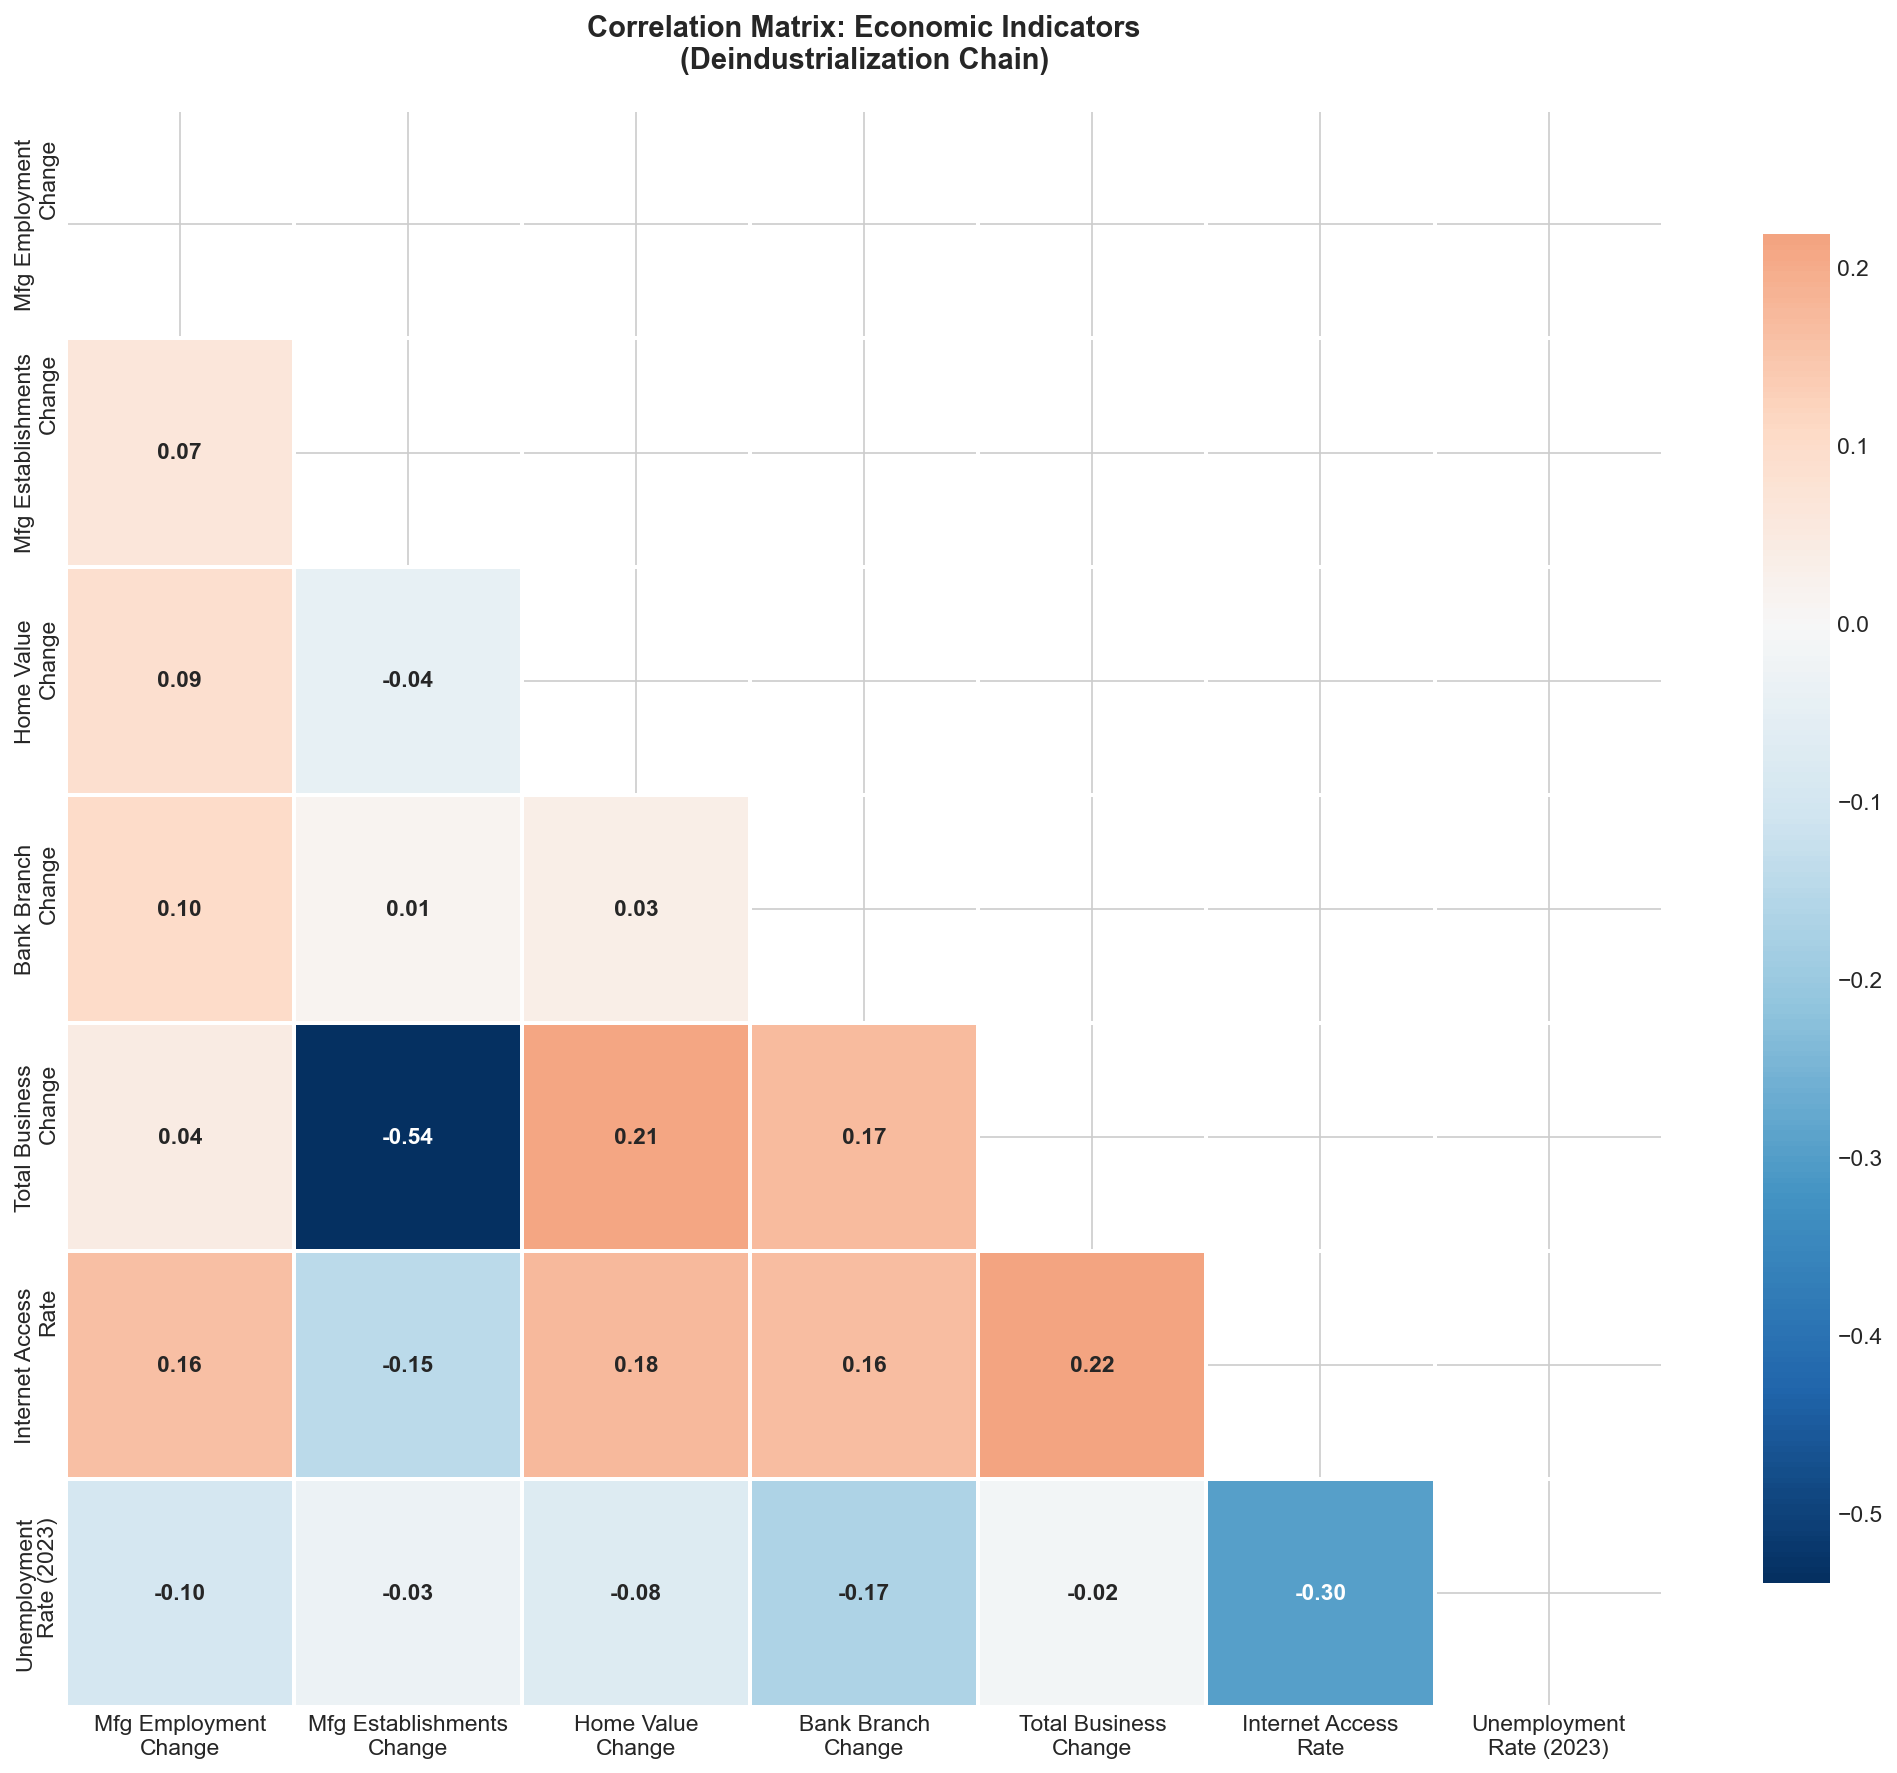
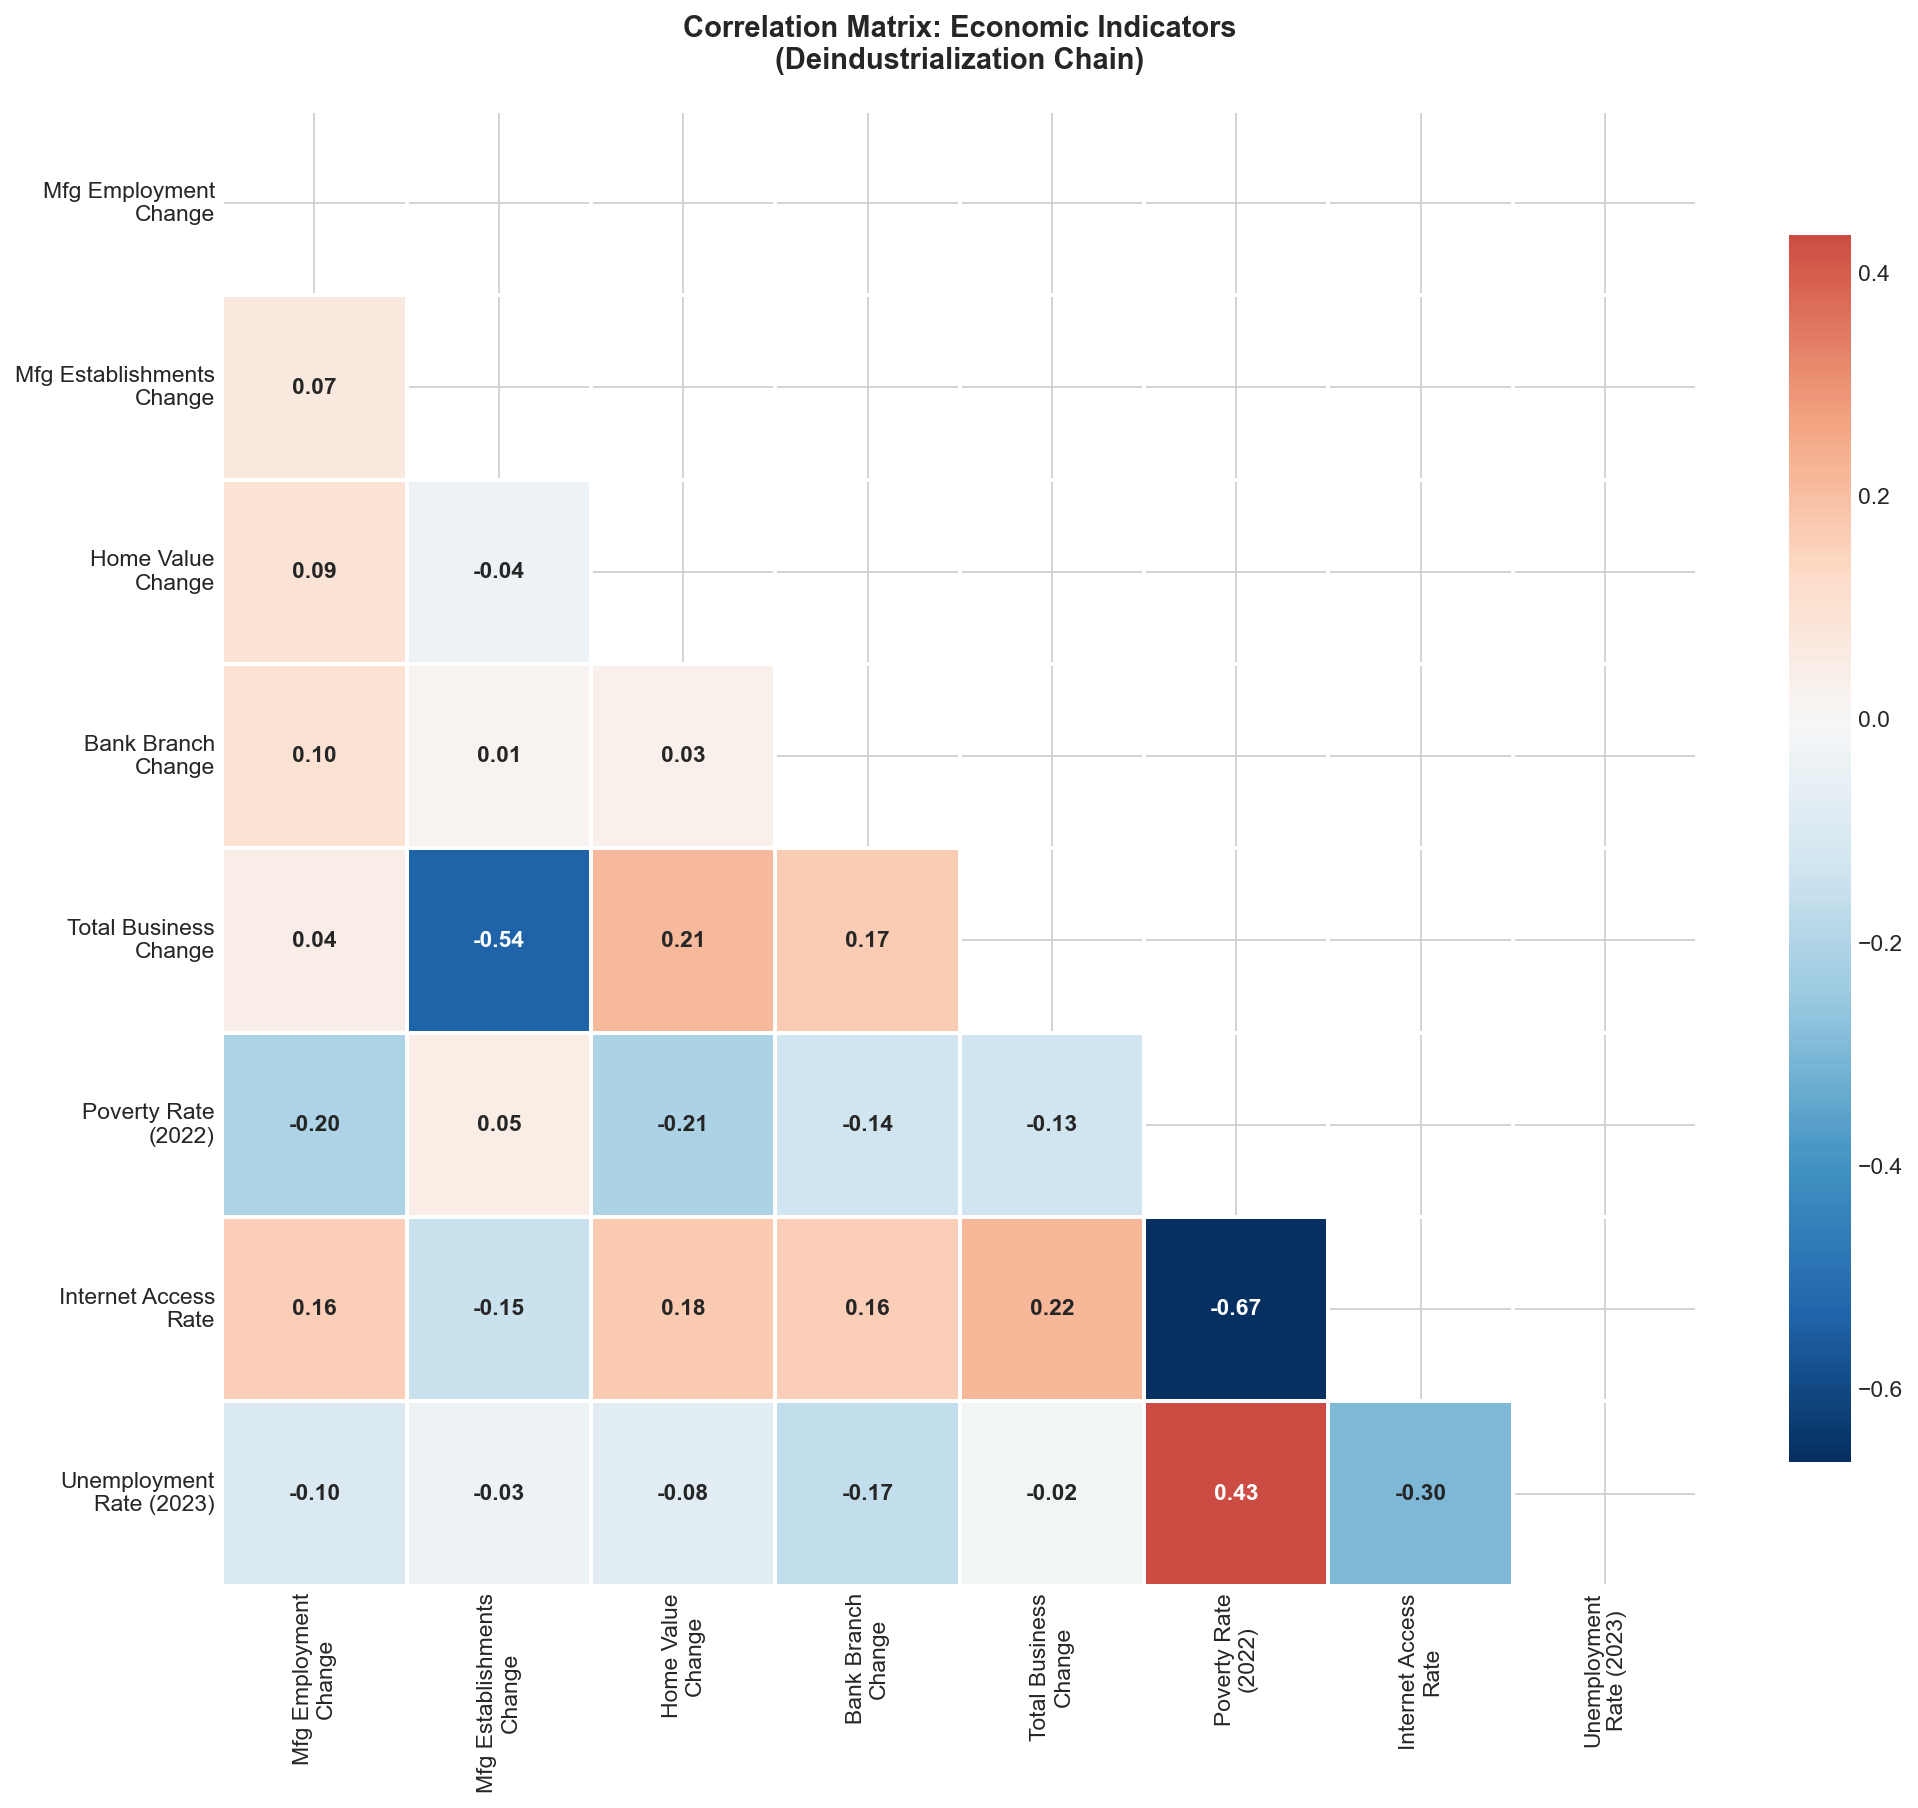
Fix blue box text visibility and empty poverty chart
- Made callout text white with !important and text-shadow
- Fixed USDA poverty data loading (was looking for 2022, data has 2023)
- Regenerated charts with poverty rate data now showing

diff --git a/index.html b/index.html
@@ -827,9 +827,9 @@
                 <p>New analysis: Tracing the complete impact from factory floors to economic distress using 7 federal data sources.</p>
             </div>
 
-            <div class="callout" style="background: linear-gradient(135deg, var(--primary) 0%, var(--primary-light) 100%); color: white; margin-bottom: 3rem;">
-                <h3 style="color: white;">Manufacturing Decline <i class="fas fa-arrow-right"></i> Job Loss <i class="fas fa-arrow-right"></i> Business Decline <i class="fas fa-arrow-right"></i> Wealth Loss <i class="fas fa-arrow-right"></i> Economic Distress</h3>
-                <p style="opacity: 0.9;">This comprehensive analysis merges employment data, business establishment counts, home values, bank branch access, poverty rates, unemployment, and internet connectivity to trace the full chain of deindustrialization's impact.</p>
+            <div class="callout" style="background: linear-gradient(135deg, #1a365d 0%, #2c5282 100%); margin-bottom: 3rem; color: #ffffff !important;">
+                <h3 style="color: #ffffff !important; text-shadow: 1px 1px 2px rgba(0,0,0,0.3);">Manufacturing Decline <i class="fas fa-arrow-right" style="color: #90cdf4;"></i> Job Loss <i class="fas fa-arrow-right" style="color: #90cdf4;"></i> Business Decline <i class="fas fa-arrow-right" style="color: #90cdf4;"></i> Wealth Loss <i class="fas fa-arrow-right" style="color: #90cdf4;"></i> Economic Distress</h3>
+                <p style="color: #e2e8f0 !important;">This comprehensive analysis merges employment data, business establishment counts, home values, bank branch access, poverty rates, unemployment, and internet connectivity to trace the full chain of deindustrialization's impact.</p>
             </div>
 
             <div class="chart-container">
